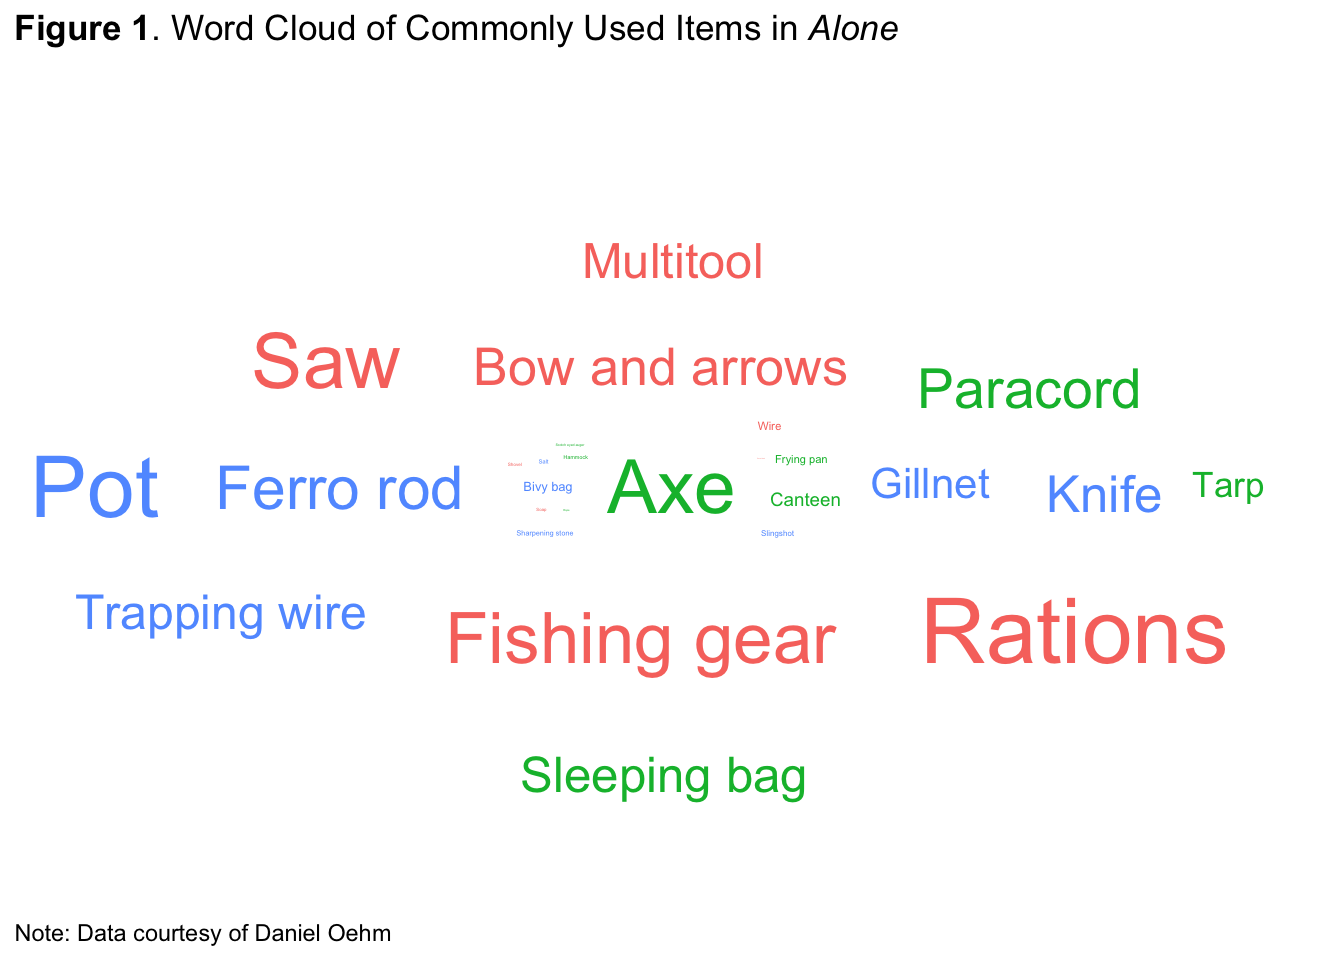
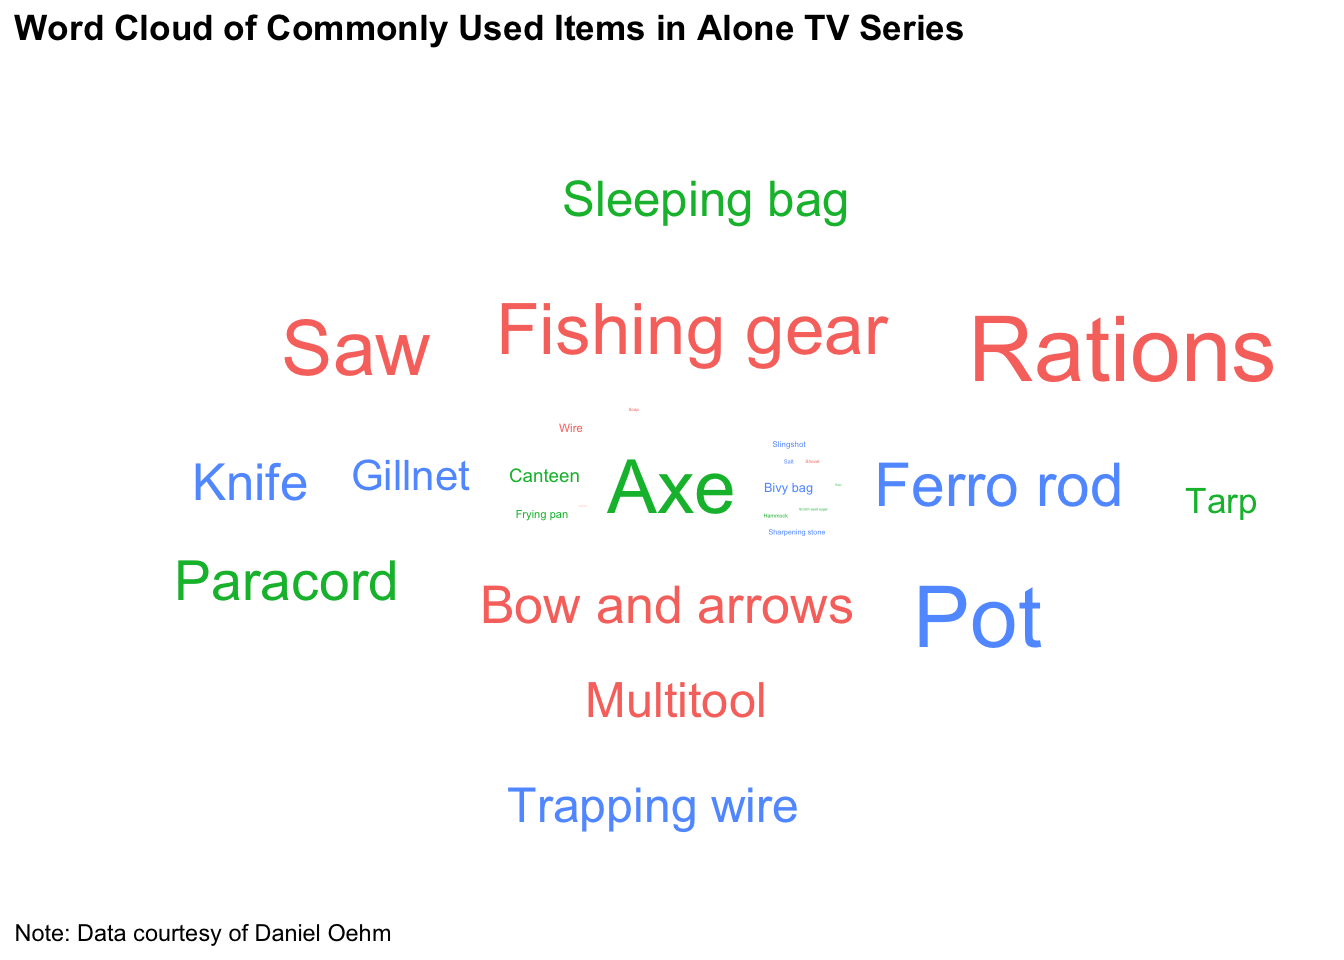
Finished blog post

diff --git a/_site/tidytuesday/1_25_23/index.html b/_site/tidytuesday/1_25_23/index.html
@@ -257,12 +257,12 @@ code span.wa { color: #60a0b0; font-weight: bold; font-style: italic; } /* Warni
 <p>To add the title, caption and alt text, we can use the code shown below</p>
 <div class="cell">
 <div class="sourceCode" id="cb4"><pre class="downlit sourceCode r code-with-copy"><code class="sourceCode R"><span><span class="va">p</span> <span class="op">&lt;-</span> <span class="va">p</span>  <span class="op">+</span> </span>
-<span>  <span class="fu"><a href="https://ggplot2.tidyverse.org/reference/labs.html">labs</a></span><span class="op">(</span>title <span class="op">=</span> <span class="st">"**Figure 1**. Word Cloud of Commonly Used Items in *Alone*"</span>,</span>
+<span>  <span class="fu"><a href="https://ggplot2.tidyverse.org/reference/labs.html">labs</a></span><span class="op">(</span>title <span class="op">=</span> <span class="st">"**Word Cloud of Commonly Used Items in Alone TV Series**"</span>,</span>
 <span>       caption <span class="op">=</span> <span class="st">"Note: Data courtesy of Daniel Oehm"</span>,</span>
 <span>       alt <span class="op">=</span> <span class="fu"><a href="https://rdrr.io/r/base/paste.html">paste</a></span><span class="op">(</span><span class="st">"A word cloud of mostly commonly discarded items on Alone"</span><span class="op">)</span><span class="op">)</span> <span class="op">+</span> </span>
 <span>  <span class="fu"><a href="https://ggplot2.tidyverse.org/reference/ggtheme.html">theme_minimal</a></span><span class="op">(</span><span class="op">)</span> <span class="op">+</span> </span>
-<span>  <span class="fu"><a href="https://ggplot2.tidyverse.org/reference/theme.html">theme</a></span><span class="op">(</span>plot.title <span class="op">=</span> <span class="fu"><a href="https://wilkelab.org/ggtext/reference/element_markdown.html">element_markdown</a></span><span class="op">(</span><span class="op">)</span><span class="op">)</span> <span class="op">+</span></span>
-<span>  <span class="fu"><a href="https://ggplot2.tidyverse.org/reference/theme.html">theme</a></span><span class="op">(</span>plot.caption <span class="op">=</span> <span class="fu"><a href="https://ggplot2.tidyverse.org/reference/element.html">element_text</a></span><span class="op">(</span>hjust <span class="op">=</span> <span class="fl">0</span><span class="op">)</span><span class="op">)</span></span></code><button title="Copy to Clipboard" class="code-copy-button"><i class="bi"></i></button></pre></div>
+<span>  <span class="fu"><a href="https://ggplot2.tidyverse.org/reference/theme.html">theme</a></span><span class="op">(</span>plot.title <span class="op">=</span> <span class="fu"><a href="https://wilkelab.org/ggtext/reference/element_markdown.html">element_markdown</a></span><span class="op">(</span>hjust <span class="op">=</span> <span class="fl">0</span><span class="op">)</span>,</span>
+<span>        plot.caption <span class="op">=</span> <span class="fu"><a href="https://ggplot2.tidyverse.org/reference/element.html">element_text</a></span><span class="op">(</span>hjust <span class="op">=</span> <span class="fl">0</span><span class="op">)</span><span class="op">)</span></span></code><button title="Copy to Clipboard" class="code-copy-button"><i class="bi"></i></button></pre></div>
 </div>
 <p>The above code gets us the following graphic. Quite honestly I think this looks good</p>
 <div class="cell">

diff --git a/_site/tidytuesday.html b/_site/tidytuesday.html
@@ -193,9 +193,9 @@ ul.task-list li input[type="checkbox"] {
 
 <div class="quarto-listing quarto-listing-container-default" id="listing-listing">
 <div class="list quarto-listing-default">
-<div class="quarto-post image-right" data-index="0" data-categories="Alone,R,TidyTuesday" data-listing-date-sort="1674622800000" data-listing-file-modified-sort="1674616251908" data-listing-reading-time-sort="3.27">
+<div class="quarto-post image-right" data-index="0" data-categories="Alone,R,TidyTuesday" data-listing-date-sort="1674622800000" data-listing-file-modified-sort="1674617823030" data-listing-reading-time-sort="3.36">
 <div class="thumbnail">
-<p><a href="./tidytuesday/1_25_23/index.html"> <img src="./tidytuesday/1_25_23/TT_1_25_23.png" class="thumnail-image" alt="A word cloud of mostly commonly discarded items on Alone"> </a></p>
+<p><a href="./tidytuesday/1_25_23/index.html"> <img src="./tidytuesday/1_25_23/twitter_upload_tt_1_25_23.png" class="thumnail-image" alt="A word cloud of mostly commonly discarded items on Alone"> </a></p>
 </div>
 <div class="body">
 <a href="./tidytuesday/1_25_23/index.html">
